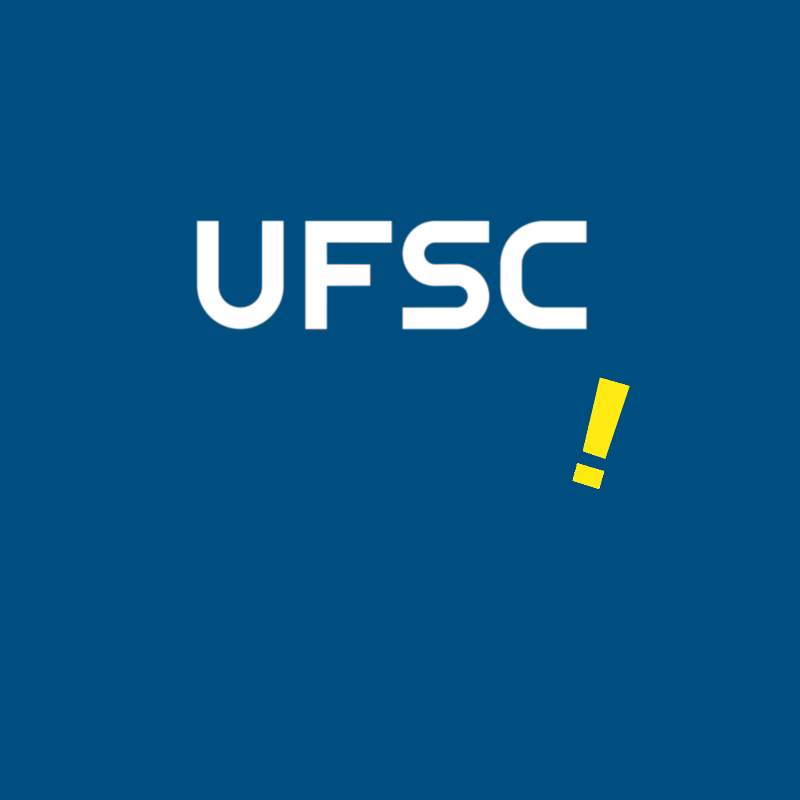
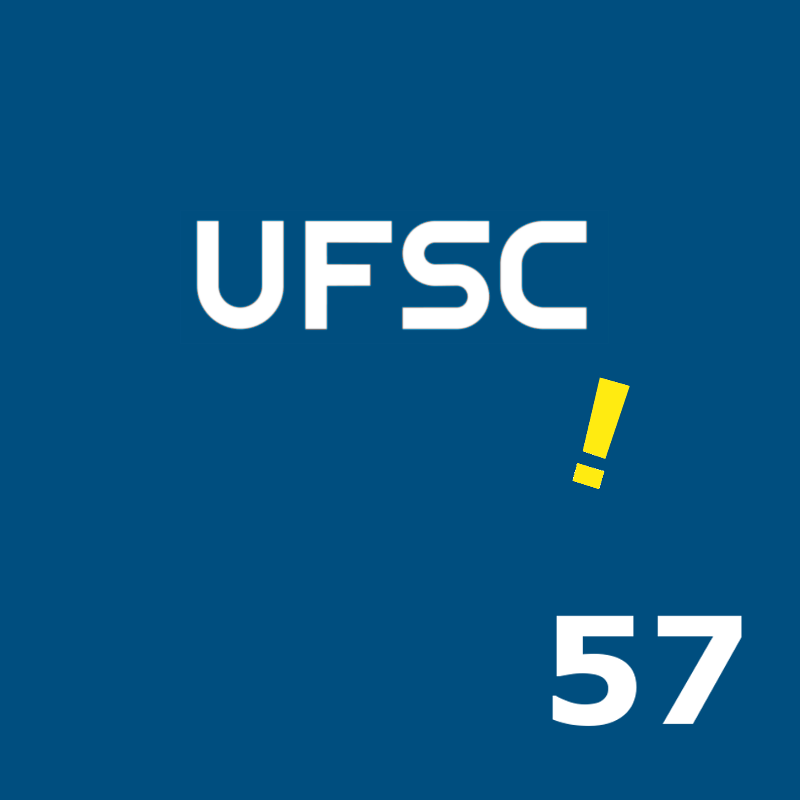
Add voting number to bg.png
Also change name of saved image from `image.png` to `ufsc.png`

Changed region(s): [[0.6875, 0.75, 0.9375, 0.9062]]

diff --git a/index.html b/index.html
@@ -25,7 +25,7 @@
 
   <div class="container-fluid" id="input">
     <input id="in" maxlength="16" class="form-control form-control-lg" placeholder="A UFSC que merecemos"></input>
-    <a id="download" download="image.png"><button type="button" onClick="down()" class="btn btn-primary btn-lg btn-block">Baixar Imagem</button></a>
+    <a id="download" download="ufsc.png"><button type="button" onClick="down()" class="btn btn-primary btn-lg btn-block">Baixar Imagem</button></a>
   </div>
   <canvas hidden id="canvas" height="800px" width="800px">
 </body>
